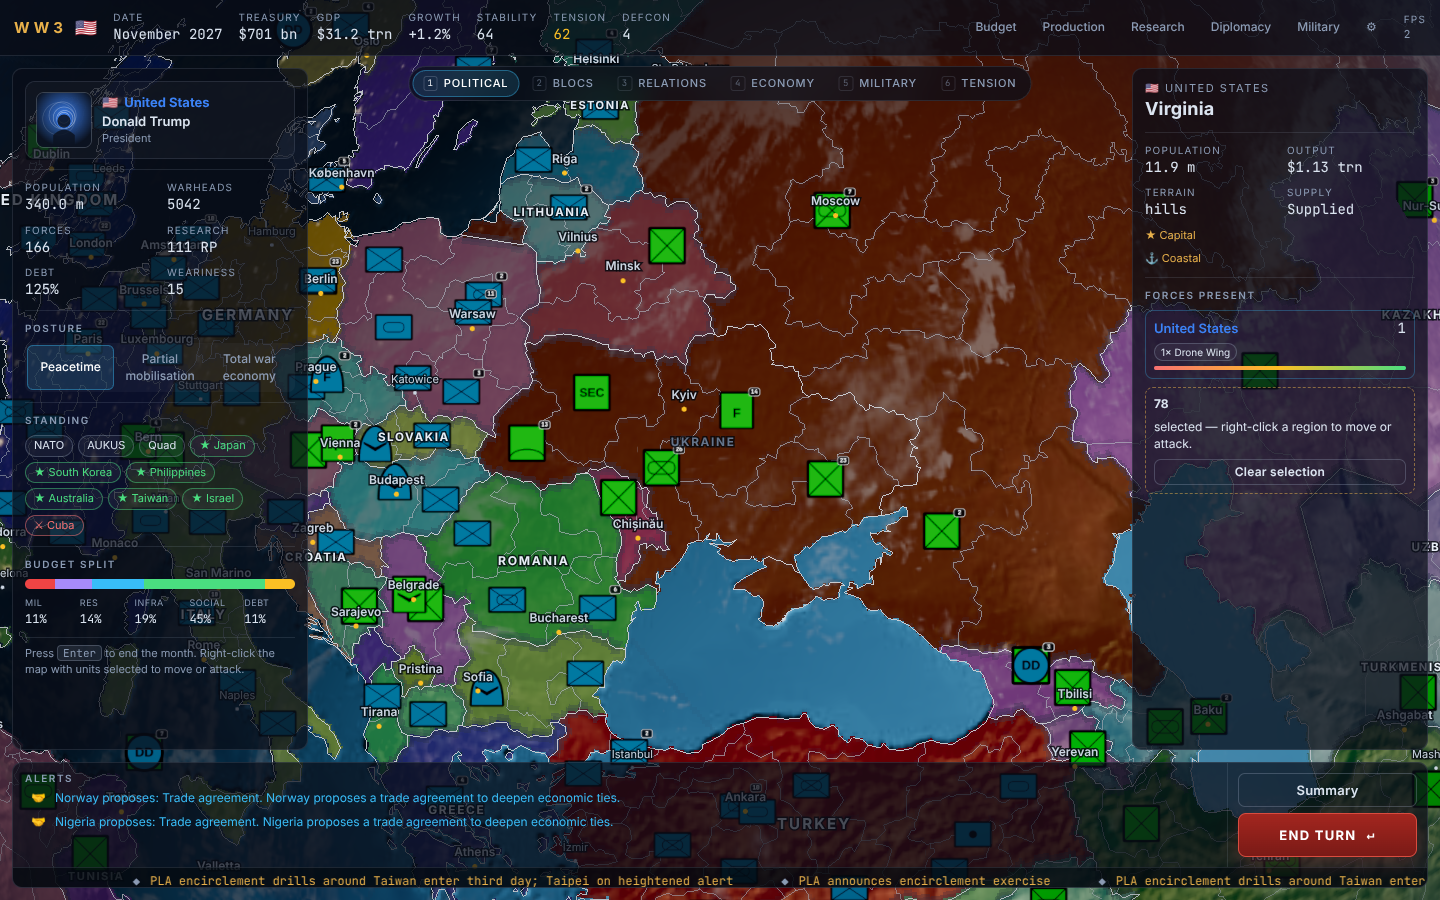
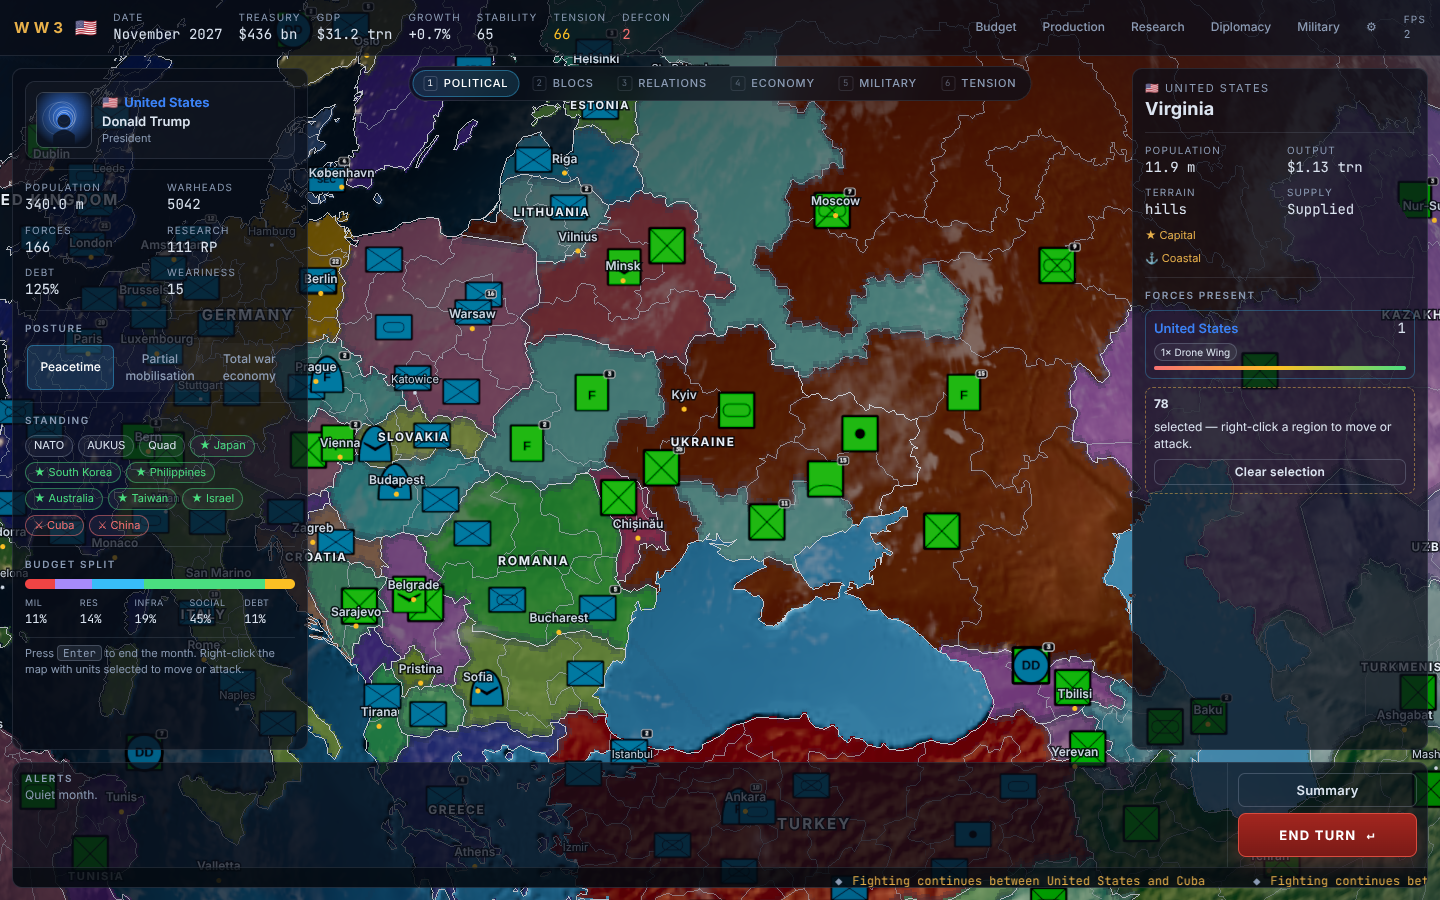
test(e2e): 50-turn Taiwan Strait Crisis run as China; event-safe turn loop
- playTurns helper answers decision modals while waiting for End Turn
- Second scenario test plays 50 turns as China with no console errors
- README test description updated; refreshed screenshots

Claude-Session: https://claude.ai/code/session_01FGTgkXZvp3Uomh5CjygAM6

diff --git a/e2e/smoke.spec.ts b/e2e/smoke.spec.ts
@@ -23,6 +23,29 @@ async function fly(page: Page, lat: number, lon: number, d: number) {
   );
 }
 
+/** Ends `n` turns, answering any decision modal that appears while waiting for the End Turn button. */
+async function playTurns(page: Page, n: number, onEvent?: () => Promise<void>): Promise<void> {
+  for (let i = 0; i < n; i++) {
+    const deadline = Date.now() + 90_000;
+    for (;;) {
+      if (await page.getByTestId('end-screen').isVisible().catch(() => false)) return;
+      if (await page.getByTestId('event-modal').isVisible().catch(() => false)) {
+        if (onEvent) await onEvent();
+        await page.getByTestId('choice-0').click();
+        await page.waitForTimeout(150);
+        continue;
+      }
+      if (await page.getByTestId('end-turn').isEnabled().catch(() => false)) {
+        await page.getByTestId('end-turn').click();
+        await page.waitForTimeout(250);
+        break;
+      }
+      if (Date.now() > deadline) throw new Error(`turn ${i + 1}: End Turn never became available`);
+      await page.waitForTimeout(200);
+    }
+  }
+}
+
 async function shot(page: Page, name: string) {
   mkdirSync(SHOTS, { recursive: true });
   await page.waitForTimeout(1500);
@@ -145,25 +168,18 @@ test('new game as USA: every screen, 10 turns, no console errors', async ({ page
 
   // Ten turns, resolving any event that pops up (screenshot the first one).
   let eventShot = false;
-  for (let i = 0; i < 10; i++) {
-    const event = page.getByTestId('event-modal');
-    if (await event.isVisible().catch(() => false)) {
-      if (!eventShot) {
-        await shot(page, 'event');
-        eventShot = true;
-      }
-      await page.getByTestId('choice-0').click();
+  await playTurns(page, 10, async () => {
+    if (!eventShot) {
+      await shot(page, 'event');
+      eventShot = true;
     }
-    await expect(page.getByTestId('end-turn')).toBeEnabled({ timeout: 60_000 });
-    await page.getByTestId('end-turn').click();
-    await page.waitForTimeout(400);
-  }
-  const event = page.getByTestId('event-modal');
-  if (await event.isVisible().catch(() => false)) {
-    await shot(page, 'event');
-    await page.getByTestId('choice-0').click();
-  }
+  });
   await expect(page.getByTestId('hud')).toContainText('November 2027', { timeout: 60_000 });
+  // A decision may be waiting after the last turn; answer it before opening other screens.
+  while (await page.getByTestId('event-modal').isVisible().catch(() => false)) {
+    await page.getByTestId('choice-0').click();
+    await page.waitForTimeout(200);
+  }
   await page.getByTestId('nav-summary').click();
   await shot(page, 'summary');
   await page.getByTestId('modal-close').click();
@@ -171,6 +187,30 @@ test('new game as USA: every screen, 10 turns, no console errors', async ({ page
   await page.waitForTimeout(4000);
   await shot(page, 'ukraine-front');
   await shot(page, 'feat-playable-v1');
+  expect(errors).toEqual([]);
+});
+
+test('Taiwan Strait Crisis as China: 50 turns without errors', async ({ page }) => {
+  const errors: string[] = [];
+  page.on('pageerror', (e) => errors.push(e.message));
+  page.on('console', (m) => {
+    if (m.type() === 'error') errors.push(m.text());
+  });
+  await page.goto('/');
+  await expect(page.getByTestId('loading')).toBeHidden({ timeout: 120_000 });
+  await page.getByTestId('menu-new').click();
+  await page.getByTestId('scenario-taiwan').click();
+  await page.getByTestId('scenario-next').click();
+  await page.getByTestId('leader-grid').getByTestId('leader-CHN').click();
+  await page.getByTestId('start-game').click();
+  await expect(page.getByTestId('hud')).toBeVisible({ timeout: 60_000 });
+  // Set a research project and a budget so the economy loop is exercised.
+  await page.getByTestId('nav-research').click();
+  await page.getByTestId('tech-semi-mature-nodes').click();
+  await page.getByTestId('modal-close').click();
+  await playTurns(page, 50);
+  await page.waitForTimeout(1000);
+  await shot(page, 'taiwan-crisis-50-turns');
   expect(errors).toEqual([]);
 });
 

diff --git a/README.md b/README.md
@@ -88,17 +88,17 @@ main menu resumes it.
 
 ## Development
 
-| Command                  | What it does                                                                                                                                                          |
-| ------------------------ | --------------------------------------------------------------------------------------------------------------------------------------------------------------------- |
-| `npm run dev`            | Vite dev server                                                                                                                                                       |
-| `npm run check`          | typecheck + lint + unit tests + production build (CI runs this)                                                                                                       |
-| `npm test`               | Vitest: determinism, economy bounds, combat monotonicity, AI order validity, 120-turn soak, data validation                                                           |
-| `npm run e2e`            | Playwright: new game as USA, every screen, 10 turns, no console errors; screenshots in `docs/screenshots/`. Set `PW_CHROMIUM_PATH` if the bundled browser is missing. |
-| `npm run perf`           | 20-second camera sweep; writes `docs/perf-last-run.json`                                                                                                              |
-| `npm run soak`           | Headless 60-turn simulation with timing and a world event log                                                                                                         |
-| `npm run build:map`      | Rebuild regions/sea zones/ID texture from Natural Earth                                                                                                               |
-| `npm run build:textures` | Rebuild globe textures from NASA imagery                                                                                                                              |
-| `npm run build:nations`  | Rebuild `data/nations.json` from the IMF/World Bank APIs                                                                                                              |
+| Command                  | What it does                                                                                                                                                                                                                                    |
+| ------------------------ | ----------------------------------------------------------------------------------------------------------------------------------------------------------------------------------------------------------------------------------------------- |
+| `npm run dev`            | Vite dev server                                                                                                                                                                                                                                 |
+| `npm run check`          | typecheck + lint + unit tests + production build (CI runs this)                                                                                                                                                                                 |
+| `npm test`               | Vitest: determinism, economy bounds, combat monotonicity, AI order validity, 120-turn soak, data validation                                                                                                                                     |
+| `npm run e2e`            | Playwright: new game as USA, every screen, war declaration + move order, 10 turns; Taiwan Strait Crisis as China for 50 turns; no console errors; screenshots in `docs/screenshots/`. Set `PW_CHROMIUM_PATH` if the bundled browser is missing. |
+| `npm run perf`           | 20-second camera sweep; writes `docs/perf-last-run.json`                                                                                                                                                                                        |
+| `npm run soak`           | Headless 60-turn simulation with timing and a world event log                                                                                                                                                                                   |
+| `npm run build:map`      | Rebuild regions/sea zones/ID texture from Natural Earth                                                                                                                                                                                         |
+| `npm run build:textures` | Rebuild globe textures from NASA imagery                                                                                                                                                                                                        |
+| `npm run build:nations`  | Rebuild `data/nations.json` from the IMF/World Bank APIs                                                                                                                                                                                        |
 
 Layout: `src/sim` (pure deterministic simulation, runs in a Web Worker), `src/render` (globe, layers,
 units, camera), `src/ui` (React HUD and screens), `src/state` (zustand stores, worker bridge, saves),
